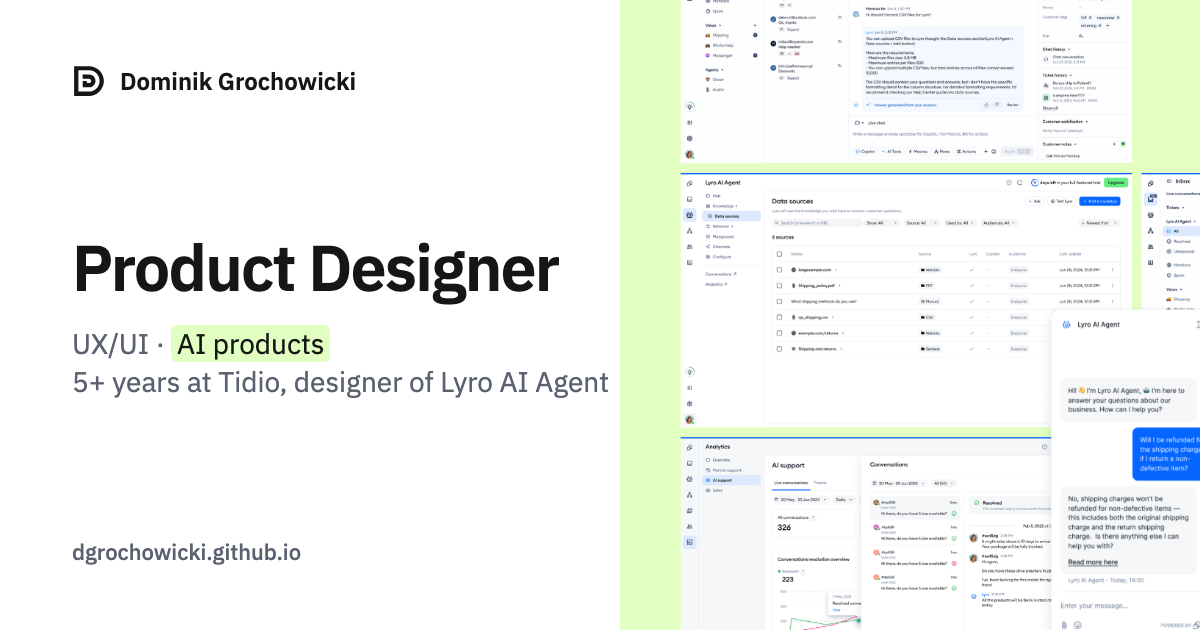
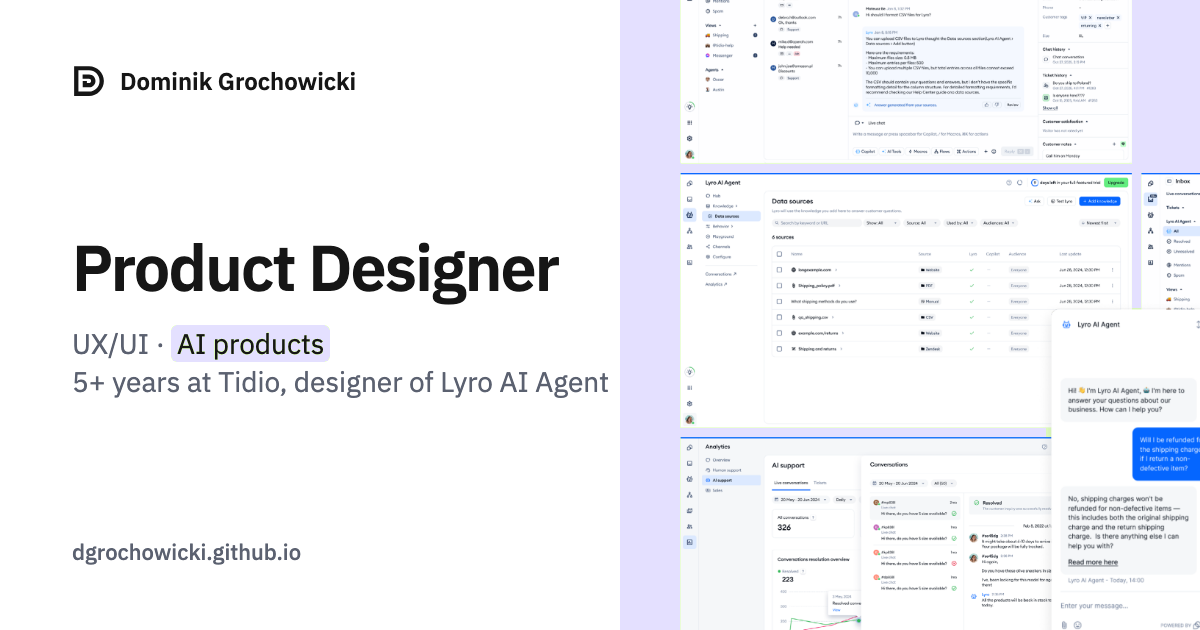
Accent: lavender/violet instead of lime green (cards, numbers, badges, cover gradient, OG image)

Changed region(s): [[0.4933, 0.0, 1.0, 1.0], [0.1233, 0.5127, 0.2775, 0.573]]

diff --git a/src/styles/global.css b/src/styles/global.css
@@ -8,7 +8,7 @@
   --fg: #161616;
   --muted: #6e7686;
   --line: #e6e7ea;
-  --accent: #e1ffc1;
+  --accent: #e4e0ff;
   --accent-fg: #161616;
   --link: #4f46e5;
   --max: 1200px;
